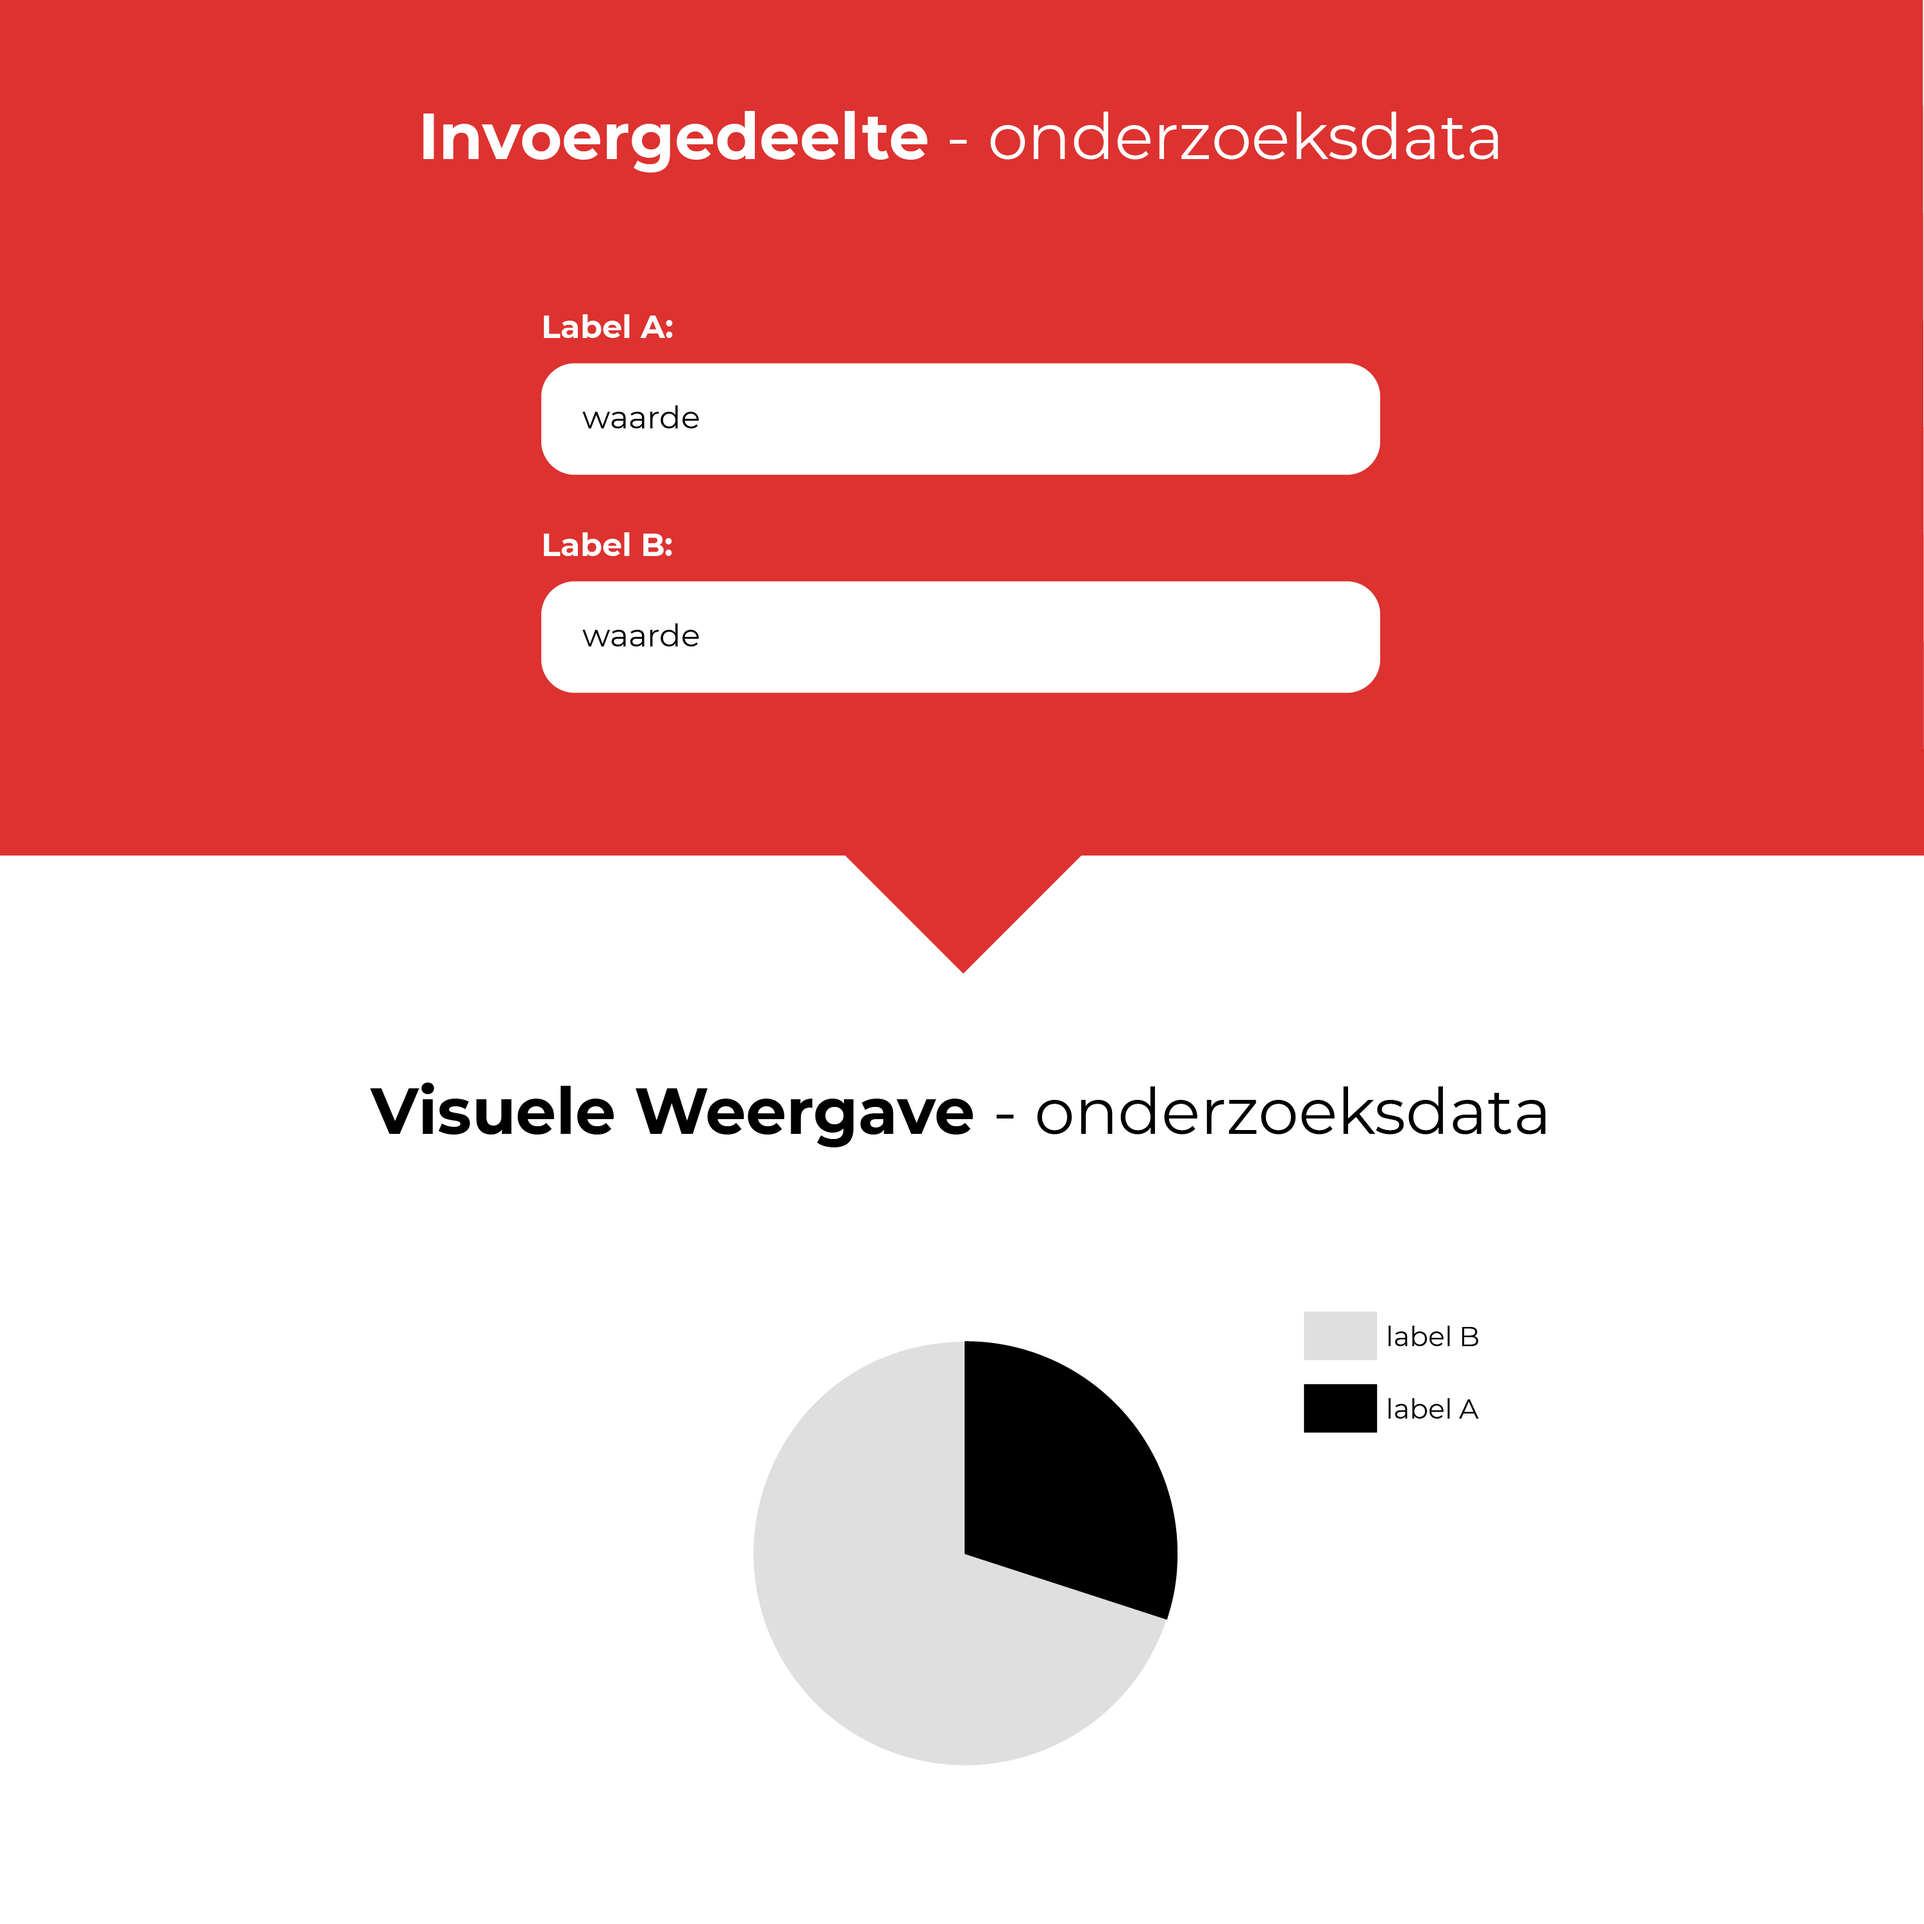
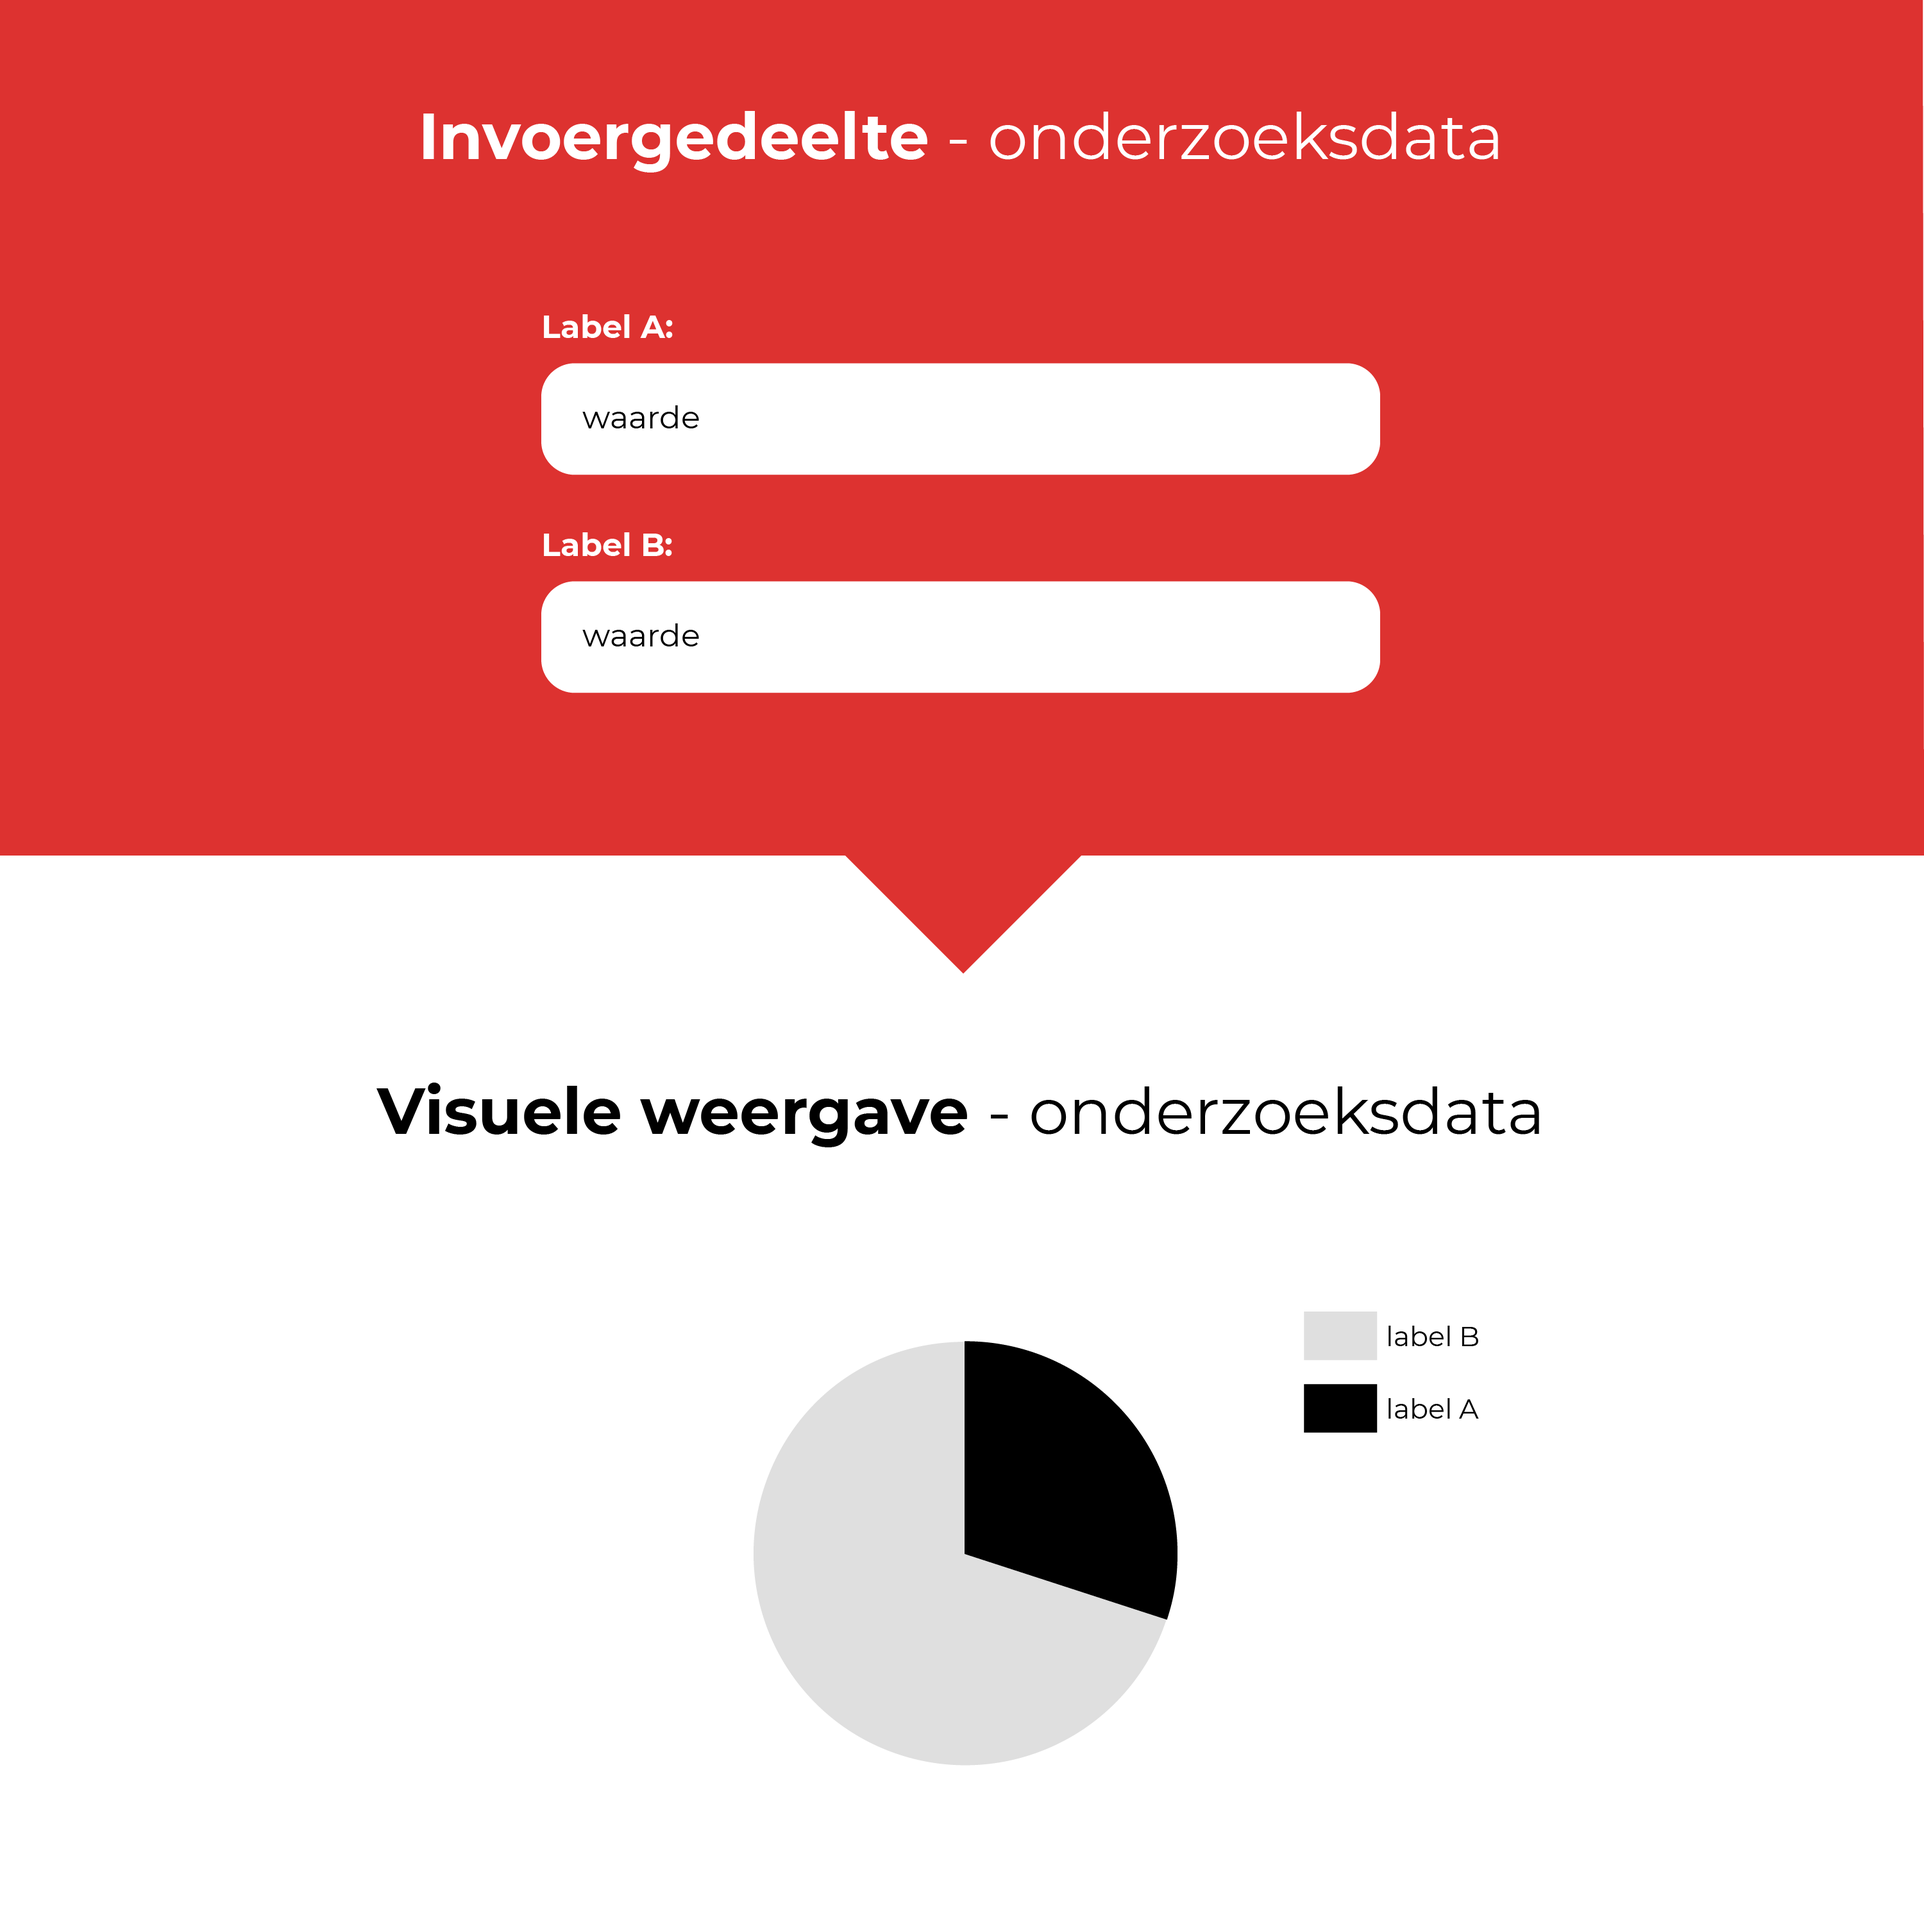
.

Changed region(s): [[0.186, 0.558, 0.496, 0.589], [0.527, 0.558, 0.806, 0.589]]

diff --git a/docs/pages/ontwerpproces/README.md b/docs/pages/ontwerpproces/README.md
@@ -1,6 +1,6 @@
 # Ontwerpproces
 
-In dit hoofdstuk wordt uitgelegd hoe de ontwerpen van dit product tot stand zijn gekomen. Er worden in totaal 2 hoofdontwerpen beschreven. Het eerste ontwerp `invoergedeelte` gaat over de invoer van onderzoeksdata in database. Het tweede ontwerp gaat over de weergave van de onderzoeksdata.
+In dit hoofdstuk wordt uitgelegd hoe de ontwerpen van dit product tot stand zijn gekomen. Er worden in totaal 2 hoofdontwerpen beschreven. Het eerste ontwerp `invoergedeelte` gaat over de invoer van onderzoeksdata in database. Het tweede ontwerp gaat over de `visuele weergave` van de onderzoeksdata.
 
 
 ## Vertakking naar een tweede ontwerp
